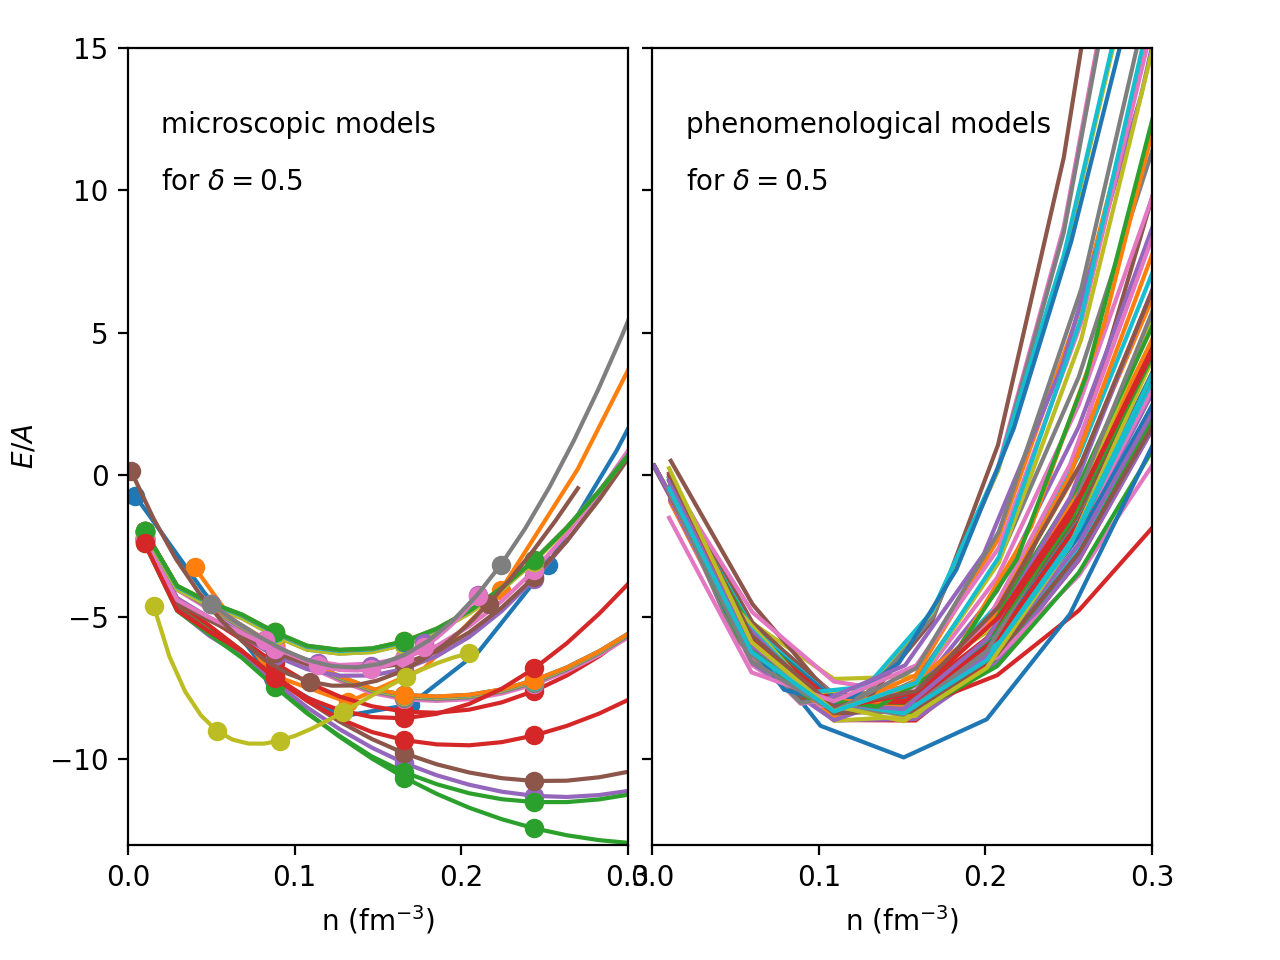
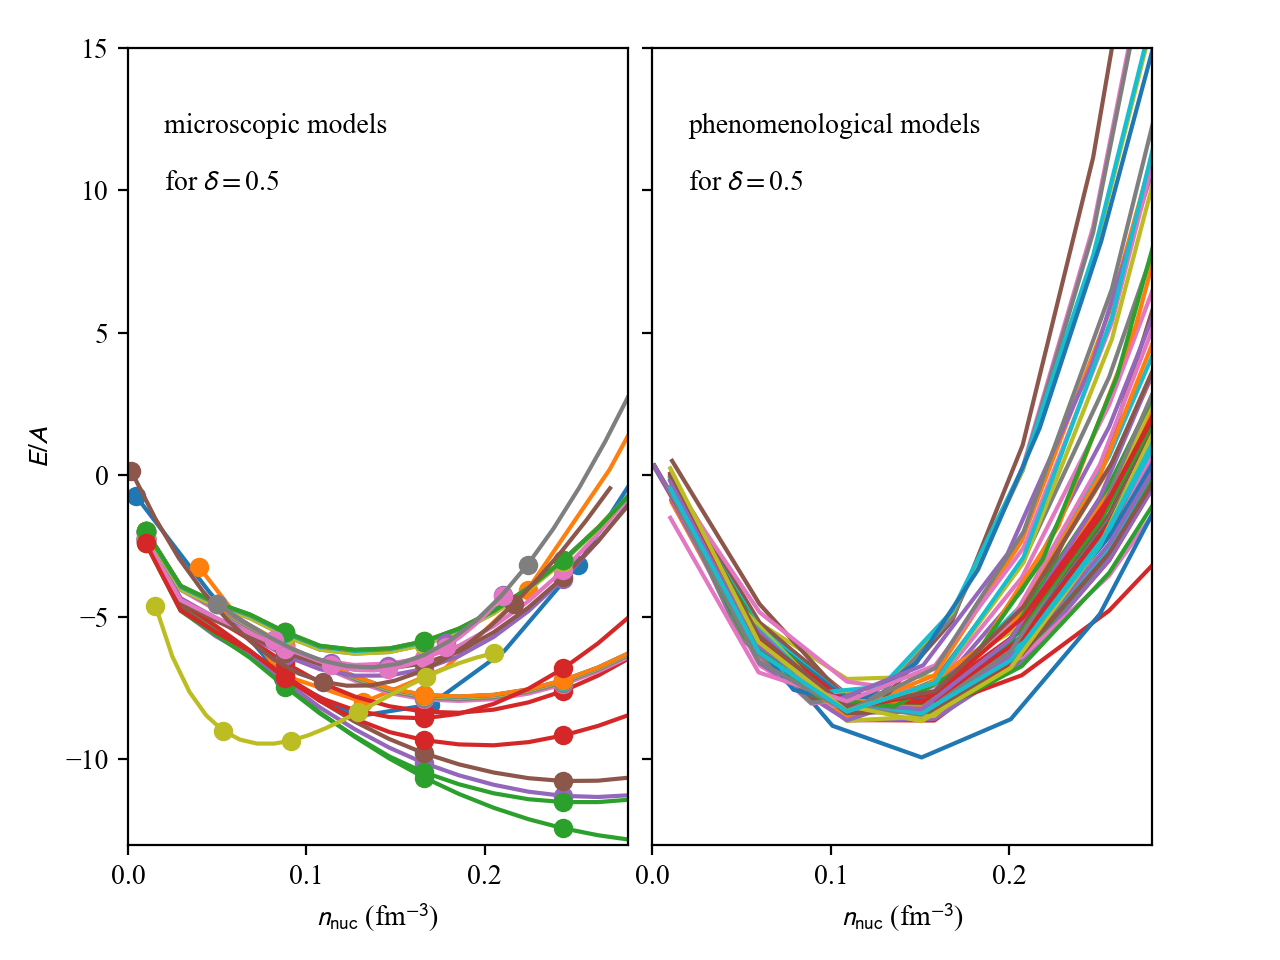
update eos module

diff --git a/version-0.2/nucleardatapy/plot/eos_setupAMLeq_fig.py b/version-0.2/nucleardatapy/plot/eos_setupAMLeq_fig.py
@@ -30,15 +30,16 @@ def eos_setupAMLeq_xe_fig( pname, models_micro, models_pheno ):
     fig.tight_layout() # Or equivalently,  "plt.tight_layout()"
     fig.subplots_adjust(left=0.12, bottom=0.12, right=None, top=0.98, wspace=0.05, hspace=0.3 )
     #
-    axs[0].set_xlabel(r'n (fm$^{-3}$)')
+    axs[0].set_xlabel(r'$n_\text{nuc}$ (fm$^{-3}$)')
     axs[0].set_ylabel(r'electron fraction $x_e$')
-    axs[0].set_xlim([0, 0.3])
+    axs[0].set_xlim([0, 0.28])
     axs[0].set_ylim([0.1, 0.3])
     #
-    axs[1].set_xlabel(r'n (fm$^{-3}$)')
+    axs[1].set_xlabel(r'$n_\text{nuc}$ (fm$^{-3}$)')
     #axs[1].set_ylabel(r'electron fraction $x_e$')
-    axs[1].set_xlim([0, 0.3])
+    axs[1].set_xlim([0, 0.28])
     axs[1].set_ylim([0.1, 0.3])
+    axs[1].tick_params('y', labelleft=False)
     #
     for model in models_micro:
         #
@@ -47,8 +48,8 @@ def eos_setupAMLeq_xe_fig( pname, models_micro, models_pheno ):
         #
         if beta.esym is not None: 
             print('model:',model)
-            axs[0].plot( beta.den, beta.x_e, linestyle=beta.linestyle, label=beta.label, markevery=beta.every )
-            #axs[0].plot( beta.den, beta.x_e, marker='o', linestyle=beta.linestyle, label=beta.label, markevery=beta.every )
+            axs[0].plot( beta.den, beta.x_el, linestyle=beta.linestyle, label=beta.label, markevery=beta.every )
+            #axs[0].plot( beta.den, beta.x_el, marker='o', linestyle=beta.linestyle, label=beta.label, markevery=beta.every )
     axs[0].text(0.08,0.22,'microscopic models',fontsize='10')
     #axs[0].legend(loc='upper left',fontsize='8', ncol=3)
     #
@@ -62,7 +63,7 @@ def eos_setupAMLeq_xe_fig( pname, models_micro, models_pheno ):
             if beta.esym is not None: 
                 print('model:',model,' param:',param)
                 #beta.label=None
-                axs[1].plot( beta.den, beta.x_e, linestyle=beta.linestyle, label=beta.label, markevery=beta.every )
+                axs[1].plot( beta.den, beta.x_el, linestyle=beta.linestyle, label=beta.label, markevery=beta.every )
             if nuda.env.verb_output: pheno.print_outputs( )
     #
     axs[1].text(0.08,0.22,'phenomenological models',fontsize='10')
@@ -98,15 +99,16 @@ def eos_setupAMLeq_xmu_fig( pname, models_micro, models_pheno ):
     fig.tight_layout() # Or equivalently,  "plt.tight_layout()"
     fig.subplots_adjust(left=0.12, bottom=0.12, right=None, top=0.98, wspace=0.05, hspace=0.3 )
     #
-    axs[0].set_xlabel(r'n (fm$^{-3}$)')
+    axs[0].set_xlabel(r'$n_\text{nuc}$ (fm$^{-3}$)')
     axs[0].set_ylabel(r'muon fraction $x_\mu$')
-    axs[0].set_xlim([0, 0.3])
+    axs[0].set_xlim([0, 0.28])
     axs[0].set_ylim([0, 0.15])
     #
-    axs[1].set_xlabel(r'n (fm$^{-3}$)')
+    axs[1].set_xlabel(r'$n_\text{nuc}$ (fm$^{-3}$)')
     #axs[1].set_ylabel(r'muon fraction $x_\mu$')
-    axs[1].set_xlim([0, 0.3])
+    axs[1].set_xlim([0, 0.28])
     axs[1].set_ylim([0, 0.15])
+    axs[1].tick_params('y', labelleft=False)
     #
     for model in models_micro:
         #
@@ -161,9 +163,9 @@ def eos_setupAMLeq_xexmu_fig( pname, models_micro, models_pheno ):
     #fig.tight_layout() # Or equivalently,  "plt.tight_layout()"
     fig.subplots_adjust(left=0.12, bottom=0.12, right=None, top=0.95, wspace=0.3, hspace=0.3 )
     #
-    axs.set_xlabel(r'n (fm$^{-3}$)',fontsize='10')
+    axs.set_xlabel(r'$n_\text{nuc}$ (fm$^{-3}$)',fontsize='10')
     axs.set_ylabel(r'$x_e$, $x_\mu$',fontsize='10')
-    axs.set_xlim([0, 0.3])
+    axs.set_xlim([0, 0.28])
     axs.set_ylim([0, 0.5])
     #
     asys = [ 0.1, 0.3, 0.5, 0.7, 0.9 ]
@@ -193,7 +195,7 @@ def eos_setupAMLeq_xexmu_fig( pname, models_micro, models_pheno ):
                 if am.esym is not None: 
                     print('model:',model,' param:',param)
                     #beta.label=None
-                    axs.plot( am.den, am.x_e, linestyle='solid', label='$\delta=$'+str(asy), color=nuda.param.col[inda] )
+                    axs.plot( am.den, am.x_el, linestyle='solid', label='$\delta=$'+str(asy), color=nuda.param.col[inda] )
                     axs.plot( am.den, am.x_mu, linestyle='dashed', color=nuda.param.col[inda] )
                 if nuda.env.verb_output: pheno.print_outputs( )
                 break

diff --git a/version-0.2/nucleardatapy/plot/eos_setupAMBeq_fig.py b/version-0.2/nucleardatapy/plot/eos_setupAMBeq_fig.py
@@ -26,16 +26,16 @@ def eos_setupAMBeq_xp_fig( pname, models_micro, models_pheno ):
     fig.tight_layout() # Or equivalently,  "plt.tight_layout()"
     fig.subplots_adjust(left=0.12, bottom=0.12, right=None, top=0.98, wspace=0.05, hspace=0.3 )
     #
-    axs[0].set_xlabel(r'n (fm$^{-3}$)')
+    axs[0].set_xlabel(r'$n_\text{nuc}$ (fm$^{-3}$)')
     axs[0].set_ylabel(r'proton fraction $x_p$')
-    axs[0].set_xlim([0, 0.3])
+    axs[0].set_xlim([0, 0.28])
     axs[0].set_ylim([0, 0.2])
-    axs[0].set_tick_params('y', right=True)
-    axs[0].set_tick_params('x', top=True)
+    #axs[0].set_tick_params('y', right=True)
+    #axs[0].set_tick_params('x', top=True)
     #
-    axs[1].set_xlabel(r'n (fm$^{-3}$)')
+    axs[1].set_xlabel(r'$n_\text{nuc}$ (fm$^{-3}$)')
     #axs[1].set_ylabel(r'proton fraction $x_p$')
-    axs[1].set_xlim([0, 0.3])
+    axs[1].set_xlim([0, 0.28])
     axs[1].set_ylim([0, 0.2])
     #setp(axs[1].get_yticklabels(), visible=False)
     axs[1].tick_params('y', labelleft=False)
@@ -98,14 +98,14 @@ def eos_setupAMBeq_xe_fig( pname, models_micro, models_pheno ):
     fig.tight_layout() # Or equivalently,  "plt.tight_layout()"
     fig.subplots_adjust(left=0.12, bottom=0.12, right=None, top=0.98, wspace=0.05, hspace=0.3 )
     #
-    axs[0].set_xlabel(r'n (fm$^{-3}$)')
+    axs[0].set_xlabel(r'$n_\text{nuc}$ (fm$^{-3}$)')
     axs[0].set_ylabel(r'electron fraction $x_e$')
-    axs[0].set_xlim([0, 0.3])
+    axs[0].set_xlim([0, 0.28])
     axs[0].set_ylim([0, 0.2])
     #
-    axs[1].set_xlabel(r'n (fm$^{-3}$)')
+    axs[1].set_xlabel(r'$n_\text{nuc}$ (fm$^{-3}$)')
     #axs[1].set_ylabel(r'electron fraction $x_e$')
-    axs[1].set_xlim([0, 0.3])
+    axs[1].set_xlim([0, 0.28])
     axs[1].set_ylim([0, 0.2])
     axs[1].tick_params('y', labelleft=False)
     #
@@ -116,7 +116,7 @@ def eos_setupAMBeq_xe_fig( pname, models_micro, models_pheno ):
         #
         if beta.esym is not None: 
             print('model:',model)
-            axs[0].plot( beta.den, beta.x_e, marker='o', linestyle=beta.linestyle, label=beta.label, markevery=beta.every )
+            axs[0].plot( beta.den, beta.x_el, marker='o', linestyle=beta.linestyle, label=beta.label, markevery=beta.every )
     axs[0].text(0.02,0.18,'microscopic models',fontsize='10')
     #axs[0].legend(loc='upper left',fontsize='8', ncol=3)
     #
@@ -130,7 +130,7 @@ def eos_setupAMBeq_xe_fig( pname, models_micro, models_pheno ):
             if beta.esym is not None: 
                 print('model:',model,' param:',param)
                 #beta.label=None
-                axs[1].plot( beta.den, beta.x_e, linestyle=beta.linestyle, label=beta.label, markevery=beta.every )
+                axs[1].plot( beta.den, beta.x_el, linestyle=beta.linestyle, label=beta.label, markevery=beta.every )
             if nuda.env.verb_output: pheno.print_outputs( )
     #
     axs[1].text(0.02,0.18,'phenomenological models',fontsize='10')
@@ -162,14 +162,14 @@ def eos_setupAMBeq_xmu_fig( pname, models_micro, models_pheno ):
     fig.tight_layout() # Or equivalently,  "plt.tight_layout()"
     fig.subplots_adjust(left=0.12, bottom=0.12, right=None, top=0.98, wspace=0.05, hspace=0.3 )
     #
-    axs[0].set_xlabel(r'n (fm$^{-3}$)')
+    axs[0].set_xlabel(r'$n_\text{nuc}$ (fm$^{-3}$)')
     axs[0].set_ylabel(r'muon fraction $x_\mu$')
-    axs[0].set_xlim([0, 0.3])
+    axs[0].set_xlim([0, 0.28])
     axs[0].set_ylim([0, 0.2])
     #
-    axs[1].set_xlabel(r'n (fm$^{-3}$)')
+    axs[1].set_xlabel(r'$n_\text{nuc}$ (fm$^{-3}$)')
     #axs[1].set_ylabel(r'muon fraction $x_\mu$')
-    axs[1].set_xlim([0, 0.3])
+    axs[1].set_xlim([0, 0.28])
     axs[1].set_ylim([0, 0.2])
     axs[1].tick_params('y', labelleft=False)
     #

diff --git a/version-0.2/nucleardatapy/eos/setup_am_Beq.py b/version-0.2/nucleardatapy/eos/setup_am_Beq.py
@@ -22,7 +22,7 @@ def func_betaeq(var,*args):
         eq1 = 4 * esym * (1-2*x_p) - nuda.cst.hbc * ( 3 * nuda.cst.pi2 * x_el * den )**nuda.cst.third
         n_mu = x_mu * den
         kFmu = ( 3 * nuda.cst.pi2 * n_mu )**nuda.cst.third
-        eq2 = kFmu - math.sqrt( kFe**2 - (nuda.cst.mmuc2/nuda.cst.hbc)**2 )
+        eq2 = kFmu - math.sqrt( kFel**2 - (nuda.cst.mmuc2/nuda.cst.hbc)**2 )
     return (eq1,eq2)
 
 class setupAMBeq():
@@ -104,9 +104,9 @@ class setupAMBeq():
                 self.x_mu.append( x_mu )
             self.x_el = np.array( self.x_el, dtype = float )
             self.x_mu = np.array( self.x_mu, dtype = float )
-            #print('x_e:',self.x_e)
+            #print('x_el:',self.x_el)
             #print('x_mu:',self.x_mu)
-            self.x_p = self.x_e + self.x_mu
+            self.x_p = self.x_el + self.x_mu
             self.x_n = 1.0 - self.x_p
             self.asy = self.x_n - self.x_p
             self.n_n = self.x_n * self.den
@@ -188,7 +188,7 @@ class setupAMBeq():
         #: Attribute the proton fraction.
         self.x_p = None
         #: Attribute the electron fraction.
-        self.x_e = None
+        self.x_el = None
         #: Attribute the muon fraction.
         self.x_mu = None
         #: Attribute the matter asymmetry parameter (n_n-n_p)/(n_n+n_p).

diff --git a/version-0.2/nucleardatapy/plot/eos_setupAM_fig.py b/version-0.2/nucleardatapy/plot/eos_setupAM_fig.py
@@ -26,14 +26,14 @@ def eos_setupAM_e_fig( pname, models_micro, models_pheno, asy ):
     #fig.tight_layout() # Or equivalently,  "plt.tight_layout()"
     fig.subplots_adjust(left=0.10, bottom=0.12, right=None, top=0.95, wspace=0.05, hspace=0.3 )
     #
-    axs[0].set_xlabel(r'n (fm$^{-3}$)')
+    axs[0].set_xlabel(r'$n_\text{nuc}$ (fm$^{-3}$)')
     axs[0].set_ylabel(r'$E/A$')
-    axs[0].set_xlim([0, 0.3])
+    axs[0].set_xlim([0, 0.28])
     axs[0].set_ylim([-13, 15])
     #
-    axs[1].set_xlabel(r'n (fm$^{-3}$)')
+    axs[1].set_xlabel(r'$n_\text{nuc}$ (fm$^{-3}$)')
     #axs[1].set_ylabel(r'$E/A$')
-    axs[1].set_xlim([0, 0.3])
+    axs[1].set_xlim([0, 0.28])
     axs[1].set_ylim([-13, 15])
     axs[1].tick_params('y', labelleft=False)
     #

diff --git a/version-0.2/nucleardatapy/eos/setup_am.py b/version-0.2/nucleardatapy/eos/setup_am.py
@@ -25,7 +25,7 @@ class setupAM():
     **Attributes:**
     """
     #
-    def __init__( self, model = '1998-VAR-AM-APR', param = None, kind = 'micro', asy = 0.0, x_mu = 0.0, var1 = np.linspace(0.01,0.4,100) ):
+    def __init__( self, model = '1998-VAR-AM-APR', param = None, kind = 'micro', asy = 0.0, x_mu = 0.0 ):
         """
         Parameters
         ----------
@@ -45,7 +45,7 @@ class setupAM():
         self = setupAM.init_self( self )
         #
         # read var and define den, asy and xpr:
-        self.den = np.array( var1, dtype=float ) # density n_b=n_n+n_p
+        #self.den = np.array( den, dtype=float ) # density n_b=n_n+n_p
         self.asy = float(asy)
         #
         if kind == 'micro':

diff --git a/version-0.2/nucleardatapy/eos/setup_am_Leq.py b/version-0.2/nucleardatapy/eos/setup_am_Leq.py
@@ -36,7 +36,7 @@ class setupAMLeq():
     **Attributes:**
     """
     #
-    def __init__( self, model = '1998-VAR-AM-APR', param = None, kind = 'micro', asy = 0.0, var1 = np.linspace(0.01,0.4,100) ):
+    def __init__( self, model = '1998-VAR-AM-APR', param = None, kind = 'micro', asy = 0.0 ):
         """
         Parameters
         ----------
@@ -56,7 +56,7 @@ class setupAMLeq():
         self = setupAMLeq.init_self( self )
         #
         # read var and define den, asy and xpr:
-        self.den = np.array( var1, dtype=float ) # density n_b=n_n+n_p
+        #self.den = np.array( var1, dtype=float ) # density n_b=n_n+n_p
         self.asy = float(asy)
         #
         if kind == 'micro':

diff --git a/version-0.2/nucleardatapy_samples/eos_setupAMBeq_plot.py b/version-0.2/nucleardatapy_samples/eos_setupAMBeq_plot.py
@@ -35,13 +35,13 @@ def main():
     # plot Esym
     #
     pname = 'figs/plot_eos_setupAMBeq_xp.png'
-    plot_eos_setupAMBeq_xp( pname, micro_models, pheno_models )
+    nuda.plot.eos_setupAMBeq_xp_fig( pname, micro_models, pheno_models )
     #
     pname = 'figs/plot_eos_setupAMBeq_xe.png'
-    plot_eos_setupAMBeq_xe( pname, micro_models, pheno_models )
+    nuda.plot.eos_setupAMBeq_xe_fig( pname, micro_models, pheno_models )
     #
     pname = 'figs/plot_eos_setupAMBeq_xmu.png'
-    plot_eos_setupAMBeq_xmu( pname, micro_models, pheno_models )
+    nuda.plot.eos_setupAMBeq_xmu_fig( pname, micro_models, pheno_models )
     #
     print(50*'-')
     print("Exit plot_eos_setupAMBeq.py:")
